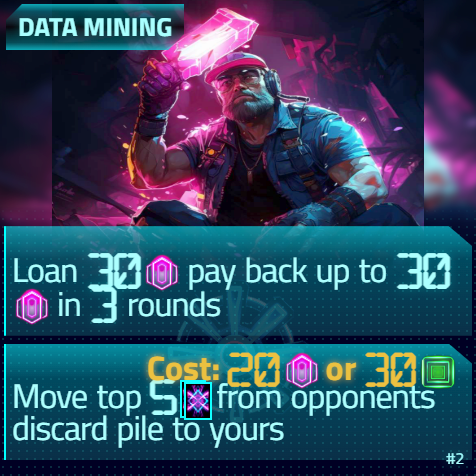
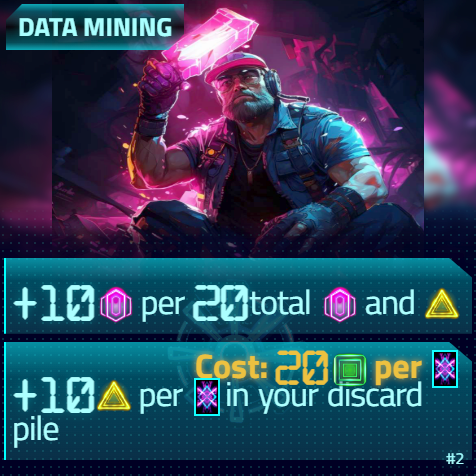
only good actions left

Changed region(s): [[0.0, 0.4706, 1.0, 0.9412]]

diff --git a/src/components/SingularityCards2 before streamline.js b/src/components/SingularityCards2 before streamline.js
@@ -272,10 +272,10 @@ const initialCards =[
     "img": "https://cdn.midjourney.com/c2691f20-d825-4d17-9c7a-785a0a993622/0_0.png",
     "title": "Data Protection",
     "action1": "Activate Security Protocol",
-    "details1": "Pick +30 data or +30 processing opponent get the other",
+    "details1": "Play any base action but put this card in your discard pile",
     "action2": "Disable Firewall",
-    "details2": "For the next 2 \nrounds, the opponents cards can't affect you",
-    "cost": "10 data or 10 processing",
+    "details2": "+30 score in 2 \nmore round",
+    "cost": "50 data",
     "id": "1",
     "type": "hc"
   },
@@ -283,22 +283,11 @@ const initialCards =[
     "img": "/chatgpt-apps3/static/media/miner.420d71acefb95e6f2e83.jpg",
     "title": "Data Mining",
     "action1": "Test Linear Regression",
-    "details1": "+10 Data per 20 total data and score",
+    "details1": "Loan 30 data pay back up to 30 data in 2 rounds\n",
     "action2": "Learn Deeply",
-    "details2": "+10 score per card in your discard pile ",
-    "cost": "20 processing per card",
+    "details2": "Move top 5 cards from opponents discard pile to yours ",
+    "cost": "30 processing",
     "id": "2",
-    "type": "base"
-  },
-  {
-    "img": "https://cdn.midjourney.com/d22dba27-cc34-49ee-bc4a-a29cbc66142f/0_0.png",
-    "title": "Tensor Processing Unit",
-    "action1": "Select optimizer algorithm",
-    "details1": "+10 processing per current Round number",
-    "action2": "Multiply the Matrix",
-    "details2": "+10 Score per 20 Data spent",
-    "cost": "All Data  min 20",
-    "id": 7,
     "type": "base"
   },
   {
@@ -307,7 +296,7 @@ const initialCards =[
     "action1": "Explore Greedily",
     "details1": "Both players lose up to 20 data each\n",
     "action2": "Predict Q Values",
-    "details2": "Competition: Player with most Score after 3 \nmore rounds get +40 score",
+    "details2": "Competition: Player with most Score after 3 \nmore rounds get +30 score",
     "cost": "10 Data or 10 processing",
     "id": "3",
     "type": "base"
@@ -316,10 +305,10 @@ const initialCards =[
     "img": "https://cdn.midjourney.com/e02d4399-92d4-4780-ab6a-a4e69691ffd7/0_0.png",
     "title": "Supervised Learning",
     "action1": "Calibrate Reward Parameters",
-    "details1": "+30 data per total 60 data of both players",
+    "details1": "+10 Data per 20 \\ntotal data and score",
     "action2": "Outsource Labeling",
-    "details2": "Move top 5 cards from opponents discard pile to yours ",
-    "cost": "30 processing",
+    "details2": "+10 score per card in your discard pile and per 20 processing spent, you must pay for all cards in your discard pile",
+    "cost": "20 processing per card",
     "id": 4,
     "type": "base"
   },
@@ -338,20 +327,31 @@ const initialCards =[
     "img": "https://cdn.midjourney.com/09392dd9-7fd8-4882-8904-f9854f98e0ed/0_0.webp",
     "title": "Swarm Intelligence",
     "action1": "Apply swarm solutions",
-    "details1": "Both players get +10 data per 20 data total of both players ",
+    "details1": "+10 processing per current Round number",
     "action2": "Release the Swarm",
-    "details2": "Steal up to as much data from opponent as processing spent",
-    "cost": "All processing",
+    "details2": "+10 Score per 20 Data spent",
+    "cost": "All Data  min 20",
     "id": 6,
     "type": "hc"
+  },
+  {
+    "img": "https://cdn.midjourney.com/d22dba27-cc34-49ee-bc4a-a29cbc66142f/0_0.png",
+    "title": "Tensor Processing Unit",
+    "action1": "Select optimizer algorithm",
+    "details1": "Both players get +10 data per 20 data total of both players ",
+    "action2": "Multiply the Matrix",
+    "details2": "Steal up to as much data from opponent as processing spent",
+    "cost": "All processing",
+    "id": 7,
+    "type": "base"
   },
   {
     "img": "/chatgpt-apps3/static/media/gan.c7a1131628c7e0ddca44.jpg",
     "title": "FontSGenerative Adversarial Network",
     "action1": "Deceive Discriminator",
-    "details1": "Loan 30 data pay back up to 30 data in 2 rounds\n",
+    "details1": "Steal 10 data from opponent",
     "action2": "Begin Zero-Sum Game",
-    "details2": "Competition: The player with the most processing after 3 \nmore rounds gets +40 score",
+    "details2": "Competition: The player with the most processing after 3 \nmore rounds gets +30 score",
     "cost": "10 Data or 20 processing",
     "id": 8,
     "type": "hc"
@@ -362,7 +362,7 @@ const initialCards =[
     "action1": "Detect objects",
     "details1": "Next round you get double processing from all actions affecting you",
     "action2": "Tune model",
-    "details2": "Competition: The player with highest reached data starting now get +40 score at end of game",
+    "details2": "Competition: The player with highest reached data starting now get +30 score at end of game",
     "cost": "20 Data  or 30 processing",
     "id": "9",
     "type": "base"
@@ -371,9 +371,9 @@ const initialCards =[
     "img": "https://cdn.midjourney.com/fa3f2293-32d8-497c-8e6d-6750afb5e420/0_2.png",
     "title": "Recurrent Neural Network",
     "action1": "Recall Long Short-Term Memory",
-    "details1": "",
+    "details1": "Copy any free action in your discard pile",
     "action2": "Backpropagate errors",
-    "details2": "",
+    "details2": "+10 Score per 20 Data spent",
     "cost": "",
     "id": "10",
     "type": "base"
@@ -404,10 +404,10 @@ const initialCards =[
     "img": "https://cdn.midjourney.com/8d6d4227-7f21-4296-b0a6-30af2190686e/0_0.webp",
     "title": "Data Center",
     "action1": "Establish redundancy",
-    "details1": "Both players change 20 data closer to 40 data",
+    "details1": "For the next 2 \nrounds, no players card can affect their opponent",
     "action2": "Provide Storage",
-    "details2": "Reveal a card from your hand and play its cost action",
-    "cost": "Card Cost",
+    "details2": "+10 score per card in your discard pile and per 20 processing spent, you must pay for all cards in your discard pile",
+    "cost": "20 processing per card",
     "id": 15,
     "type": "base"
   },
@@ -415,10 +415,10 @@ const initialCards =[
     "img": "/chatgpt-apps3/static/media/blixt.1e43ccc8de62f427e69b.jpg",
     "title": "CPU Voltage Spike",
     "action1": "Accidentally Overclock",
-    "details1": "",
+    "details1": "Both players change 20 data closer to 40 data",
     "action2": "Overload game",
-    "details2": "",
-    "cost": "",
+    "details2": "Both players put their hand back in the draw pile, reshuffle and draw the amount of cards they had",
+    "cost": "20 data or 20 processing",
     "id": 17,
     "type": "base"
   },
@@ -426,10 +426,10 @@ const initialCards =[
     "img": "https://cdn.midjourney.com/7da199d0-a7e6-4710-a110-187fab80a489/0_1.webp",
     "title": "Neural Network",
     "action1": "Select optimizer algorithm",
-    "details1": "Copy any free action in your discard pile",
+    "details1": "+30 data per total 60 data of both players",
     "action2": "Add deep layers",
-    "details2": "Next round, both players also get the result of their opponents action ",
-    "cost": "30 data or 30 processing",
+    "details2": "Reveal a card from your hand and play its cost action",
+    "cost": "Card Cost",
     "id": 18,
     "type": "base"
   },
@@ -437,9 +437,9 @@ const initialCards =[
     "img": "https://cdn.midjourney.com/2094539a-a581-4086-9e5a-3c1ddd89a1ce/0_3.webp",
     "title": "Genetic Algorithms",
     "action1": "Mutate Variables",
-    "details1": "",
+    "details1": "Pick +40 data or +40 processing opponent get the other",
     "action2": "Evolve Sequence",
-    "details2": "",
+    "details2": "+10 score per 20 processing spent",
     "cost": "All processing",
     "id": 20,
     "type": "hc"
@@ -459,10 +459,10 @@ const initialCards =[
     "img": "https://cdn.midjourney.com/1089bf1f-e0ee-4f00-b9c4-73301f0d99d3/0_2.webp",
     "title": "Data Encryption",
     "action1": "Reverse the Hash",
-    "details1": "",
+    "details1": "Trigger all delayed Cards this round",
     "action2": "Imitate the game",
-    "details2": "",
-    "cost": "",
+    "details2": "Next round, both players also get the result of their opponents action ",
+    "cost": "30 data or 30 processing",
     "id": "27",
     "type": "v2"
   },
@@ -481,10 +481,10 @@ const initialCards =[
     "img": "https://cdn.midjourney.com/7a0a97c8-4b58-46be-8449-2f40d64e62cf/0_3.png",
     "title": "Blockchain",
     "action1": "Pump and dump",
-    "details1": "",
+    "details1": "Delay all delayed Cards another 2 \nrounds ",
     "action2": "Hodl",
-    "details2": "",
-    "cost": "",
+    "details2": "No player can spend data or processing during the next 2 \nrounds",
+    "cost": "30 data",
     "id": "31",
     "type": "v2"
   },
@@ -494,8 +494,8 @@ const initialCards =[
     "action1": "Connect remotely",
     "details1": "Next round all Data gain is doubled for both players",
     "action2": "Roll over data",
-    "details2": "+10 data per 10 processing spent",
-    "cost": "All processing",
+    "details2": "+30 score per 40 Data spent ",
+    "cost": "All Data",
     "id": "34",
     "type": "v2"
   },
@@ -503,10 +503,10 @@ const initialCards =[
     "img": "https://cdn.midjourney.com/22d4754f-4c13-497d-a8fb-dad9d8523cb3/0_2.png",
     "title": "Self Driving Car",
     "action1": "Break for bag",
-    "details1": "",
+    "details1": "No processing can be gained this round",
     "action2": "Navigate autonomously",
-    "details2": "",
-    "cost": "",
+    "details2": "+10 data per 10 processing spent",
+    "cost": "All processing",
     "id": "38",
     "type": "hc"
   },
@@ -527,7 +527,7 @@ const initialCards =[
     "action1": "Assemble Selectively and Comply",
     "details1": "+20 data if you have less data than opponent \n",
     "action2": "Pick and Place",
-    "details2": "Competition: +40 score to player with most cards in their discard pile after last round",
+    "details2": "Competition: +30 score to player with most cards in their discard pile after last round",
     "cost": "20 data or 20 processing",
     "id": "41",
     "type": "hc"
@@ -549,8 +549,8 @@ const initialCards =[
     "action1": "Loop in the human",
     "details1": "Next round, also copy the free action of the card you play",
     "action2": "Strike Signature",
-    "details2": "Set your totalt data to the same amount that your opponent have",
-    "cost": "70 processing",
+    "details2": "Both players loose half their data",
+    "cost": "40 processing",
     "id": "46",
     "type": "v2"
   },
@@ -558,10 +558,10 @@ const initialCards =[
     "img": "/chatgpt-apps3/static/media/siri.294b839874cae4456ae2.png",
     "title": "Digital Assistant",
     "action1": "Set timer",
-    "details1": "+20 processing per card in your discard pile with \"Data\" in its name",
+    "details1": "+30 processing per card in your discard pile with \"Data\" in its name",
     "action2": "Record secretly",
-    "details2": "Next round you get double data and processing from all actions affecting you",
-    "cost": "30 data or 30 processing",
+    "details2": "Set your totalt data to the same amount that your opponent have",
+    "cost": "70 processing",
     "id": "47",
     "type": "v2"
   },
@@ -580,10 +580,10 @@ const initialCards =[
     "img": "https://cdn.midjourney.com/d286efee-1e5d-49be-a0d4-96a09fed0a37/0_0.png",
     "title": "Non Player Character",
     "action1": "Follow Path",
-    "details1": "",
+    "details1": "For the rest of the game, you discard card to your pile to take base actions",
     "action2": "Adjust difficulty",
-    "details2": "",
-    "cost": "",
+    "details2": "Next round you get double data and processing from all actions affecting you",
+    "cost": "30 data or 30 processing",
     "id": "50",
     "type": "v3"
   },
@@ -594,7 +594,7 @@ const initialCards =[
     "details1": "+30 processing",
     "action2": "Trick tyrant",
     "details2": "In 3 \nrounds, pick one of +70 data or +70 processing  or +30 score",
-    "cost": "40 data or 40 processing",
+    "cost": "50 data or 50 processing",
     "id": "51",
     "type": "v3"
   },
@@ -604,7 +604,7 @@ const initialCards =[
     "action1": "Block incoming traffic ",
     "details1": "+10 data per card in your opponents discard pile",
     "action2": "Disable \"temporarily\"",
-    "details2": "Competition: Any player with \"Data Protection\" in their discard pile at game end get +40 score",
+    "details2": "Competition: Any player with \"Data Protection\" in their discard pile at game end get +30 score",
     "cost": "20 data or 20 processing",
     "id": "53",
     "type": "v3"
@@ -967,8 +967,8 @@ const SingularityCards = () => {
       <BaseRulesCard ref={baseActionsRef}></BaseRulesCard>
       <RoundEventCard ref={RoundEventRef}></RoundEventCard>
       <RulesCard ref={GeneralRulesRef}></RulesCard>
-      {/* <RoundRulesCard ref={RoundOrderRef}></RoundRulesCard> */}
-      {/* <RoundNumberCard ></RoundNumberCard> */}
+      <RoundRulesCard ref={RoundOrderRef}></RoundRulesCard>
+      <RoundNumberCard ></RoundNumberCard>
       {cards.map((card, index) => (
         checkedTypes[card.type] ? (
           <div key={index}>
